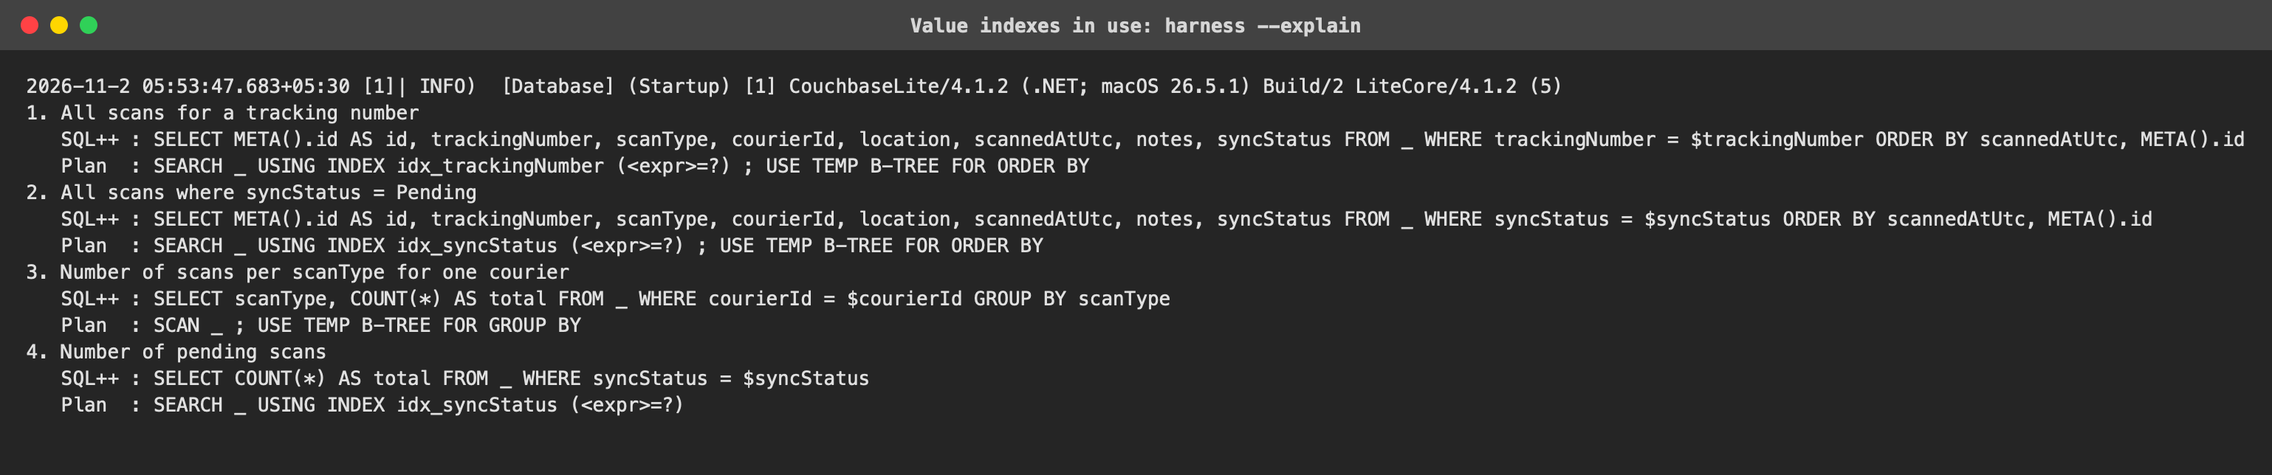
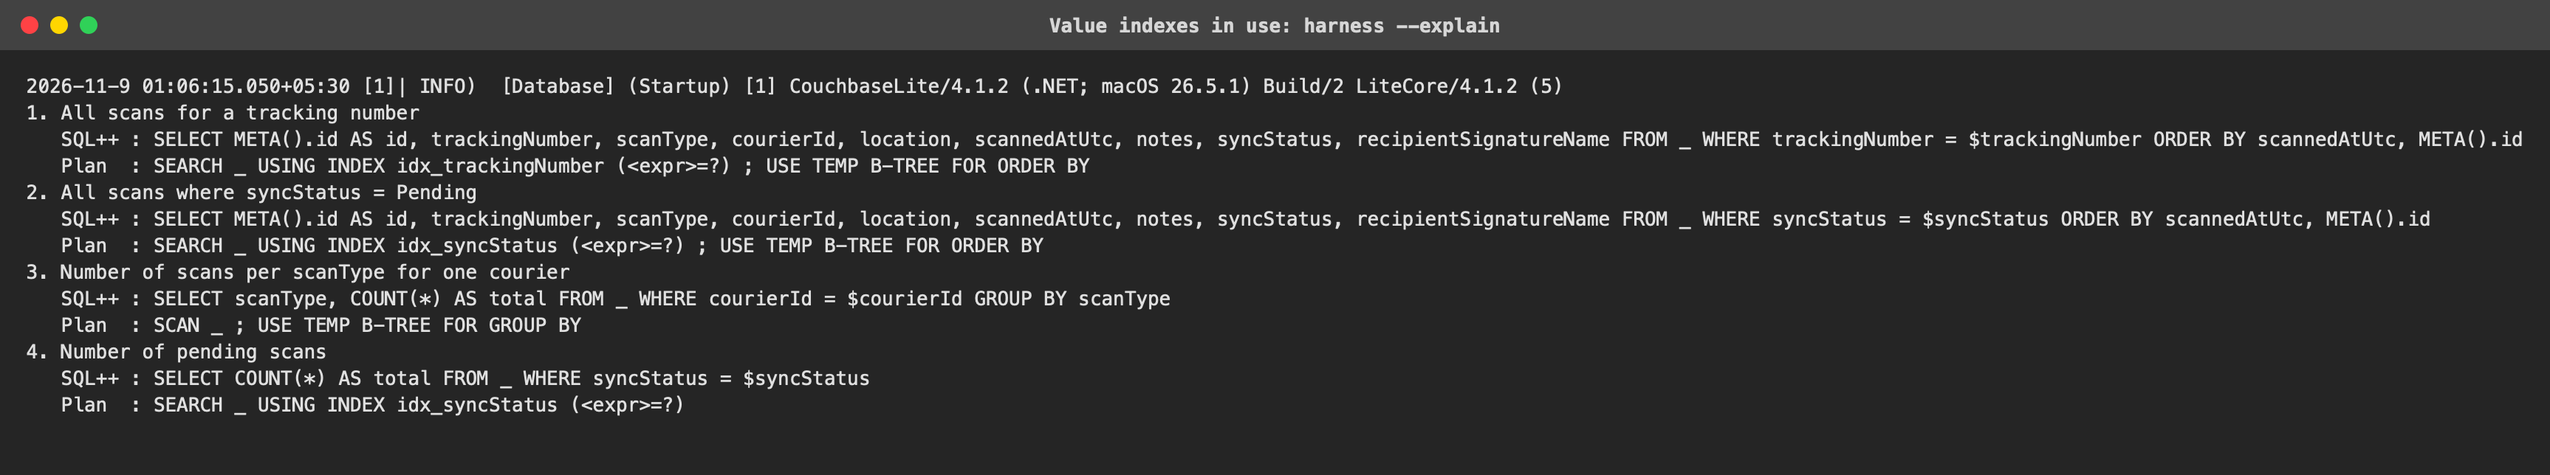
docs: retake the Swagger screenshots over HTTPS with Authorize, refresh Part A evidence, update security notes and Git history

Changed region(s): [[0.0, 0.1553, 0.9984, 0.8696], [0.4056, 0.0311, 0.5928, 0.0932], [0.0, 0.0311, 0.0624, 0.0621]]

diff --git a/docs/week4-partA/tools/make_evidence.py b/docs/week4-partA/tools/make_evidence.py
@@ -70,20 +70,20 @@ os.makedirs(OUT, exist_ok=True)
 
 # Session A: the three SQL++ queries, the outbox and a failed upload.
 a = Session("/tmp/apexpost-demo-a")
-a.act("1", "APX-2026-001", "1", "C-1001", "Sydney NSW", "Picked up at depot", settle=1.2)
+a.act("1", "APX-20260001", "1", "C-1001", "Sydney NSW", "Picked up at depot", settle=1.2)
 time.sleep(1.1)
-a.act("1", "APX-2026-001", "2", "C-1001", "Parramatta NSW", "Loaded on van 12", settle=1.2)
+a.act("1", "APX-20260001", "2", "C-1001", "Parramatta NSW", "Loaded on van 12", settle=1.2)
 time.sleep(1.1)
-a.act("1", "APX-2026-002", "1", "C-1001", "Sydney NSW", "[fail] torn label", settle=1.2)
+a.act("1", "APX-20260002", "1", "C-1001", "Sydney NSW", "[fail] torn label", settle=1.2)
 time.sleep(1.1)
-add4 = a.act("1", "APX-2026-001", "3", "C-1001", "Penrith NSW", "Left with neighbour", settle=1.2)
+add4 = a.act("1", "APX-20260001", "3", "C-1001", "Penrith NSW", "Left with neighbour", settle=1.2)
 time.sleep(1.1)
-add5 = a.act("1", "APX-2026-003", "1", "C-2002", "Melbourne VIC", "", settle=1.2)
-find = a.act("2", "APX-2026-001")
+add5 = a.act("1", "APX-20260003", "1", "C-2002", "Melbourne VIC", "", settle=1.2)
+find = a.act("2", "APX-20260001")
 pending = a.act("3")
 sync = a.act("4", settle=1.6)
 pending_after = a.act("3")
-find_failed = a.act("2", "APX-2026-002")
+find_failed = a.act("2", "APX-20260002")
 a.act("6")
 a.finish()
 with open(os.path.join(OUT, "query-results.txt"), "w") as handle:
@@ -97,9 +97,9 @@ render("query-4-sync-and-failed-scan", "Option 4: Simulate Sync, then List Pendi
 # Session B: the change listener log and the live pending count.
 b = Session("/tmp/apexpost-demo-b")
 parts = []
-parts += b.act("1", "APX-2026-010", "1", "C-1001", "Sydney NSW", "", settle=1.2)
-parts += [""] + b.act("1", "APX-2026-010", "2", "C-1001", "Parramatta NSW", "", settle=1.2)
-parts += [""] + b.act("1", "APX-2026-011", "1", "C-1001", "Sydney NSW", "[fail] torn label", settle=1.2)
+parts += b.act("1", "APX-20260010", "1", "C-1001", "Sydney NSW", "", settle=1.2)
+parts += [""] + b.act("1", "APX-20260010", "2", "C-1001", "Parramatta NSW", "", settle=1.2)
+parts += [""] + b.act("1", "APX-20260011", "1", "C-1001", "Sydney NSW", "[fail] torn label", settle=1.2)
 parts += [""] + b.act("4", settle=1.6)
 parts += [""] + b.act("5", "{ID:1}", settle=1.2)
 parts += [""] + b.act("6")

diff --git a/ApexPost.Tracking/Application/ShipmentService.cs b/ApexPost.Tracking/Application/ShipmentService.cs
@@ -220,7 +220,35 @@ public sealed class ShipmentService(IShipmentStore store, IBranchRepository bran
 
         // A scan that another upload stored in the meantime was skipped by the store, so it is a duplicate too.
         duplicates += fresh.Count - stored.Count;
+        await CloseDeliveryAsync(shipment, fresh.Where(scan => stored.Contains(scan.ScanId)).ToList(), now, ct);
         return ServiceResult<ScanUploadOutcome>.Success(new ScanUploadOutcome(stored.Count, duplicates, rejections));
+    }
+
+    /// <summary>
+    /// A Delivered or Failed scan from the courier closes a shipment that is out for delivery, so the shipment and its
+    /// scan history agree. It follows the normal status rules: only OutForDelivery can move to Delivered or Failed,
+    /// so a scan that arrives earlier in the journey changes nothing and the courier moves the status with PATCH.
+    /// </summary>
+    private async Task CloseDeliveryAsync(Shipment shipment, IReadOnlyList<TrackingScan> stored, DateTimeOffset now, CancellationToken ct)
+    {
+        var closing = stored
+            .Where(scan => scan.ScanType is ScanType.Delivered or ScanType.Failed)
+            .OrderBy(scan => scan.ScannedAtUtc)
+            .LastOrDefault();
+        if (closing is null || shipment.Status != ShipmentStatus.OutForDelivery)
+        {
+            return;
+        }
+
+        shipment.MoveTo(closing.ScanType == ScanType.Delivered ? ShipmentStatus.Delivered : ShipmentStatus.Failed, now);
+        try
+        {
+            await store.SaveChangesAsync(ct);
+        }
+        catch (ConcurrencyConflictException)
+        {
+            // Someone moved the shipment in the meantime. Their change stands, and the scans are already stored.
+        }
     }
 
     private static string? RejectionReason(IncomingScan scan, Shipment shipment, DateTimeOffset now)

diff --git a/SECURITY.md b/SECURITY.md
@@ -24,7 +24,13 @@ A courier may upload only scans recorded under their own `courierId` claim. `Shi
 
 **401 and 403.** A missing, invalid or expired token returns 401 ProblemDetails with a `WWW-Authenticate: Bearer` challenge, and the detail says which (for example "The access token has expired. Sign in again."). The wrong role returns 403 ProblemDetails. The token itself is never written to a response or a log. `SecurityTests` covers each case.
 
-**Development tokens.** In Development only, `POST /dev/token` issues a short-lived token signed with the same key:
+**Development tokens.** `POST /dev/token` issues a short-lived token signed with the same key, and anyone who could call it could become an Admin, so it is guarded three times and all three must hold:
+
+1. `ASPNETCORE_ENVIRONMENT` is Development. One wrong environment setting is not enough, because
+2. `Jwt:AllowDevelopmentTokens` must also be `true`. It is set only in `appsettings.Development.json`, so a Production deployment, or any deployment that copies `appsettings.json` alone, has no such route.
+3. The caller must be on the same machine (a loopback address). Anyone else gets a 404, as if the route did not exist.
+
+Setting the environment wrongly does expose the other Development features (Swagger UI, full error details, automatic migrations and seeding), so deployments must set the environment explicitly. `dotnet user-jwts` is the alternative the brief names, and it needs none of this: it keeps the signing key in user secrets and issues tokens with the .NET CLI.
 
 ```bash
 dotnet user-secrets set "Jwt:SigningKey" "$(openssl rand -base64 32)" --project ApexPost.Api
@@ -34,7 +40,7 @@ dotnet user-secrets set "Jwt:SigningKey" "$(openssl rand -base64 32)" --project 
 curl -k -X POST https://localhost:7180/dev/token -H "Content-Type: application/json" -d '{"roles":["Courier"],"courierId":"CR-1001"}'
 ```
 
-It is not mapped outside Development, and it is not in the OpenAPI documents. In Swagger UI, paste its `accessToken` into **Authorize → Bearer**, and every "Try it out" sends it.
+It is not mapped outside Development, and it is not in the OpenAPI documents. `SecurityTests` checks that production never issues a token, that the setting is needed, and that only loopback callers are served. In Swagger UI, paste its `accessToken` into **Authorize → Bearer**, and every "Try it out" sends it.
 
 ## Partner API keys
 
@@ -45,6 +51,14 @@ dotnet user-secrets set "PartnerApiKeys:Keys:DemoPartner" "$(openssl rand -hex 2
 ```
 
 `appsettings.json` holds an empty `Keys` object, so with no secrets configured every key fails. The endpoint filter compares SHA-256 hashes of the supplied key and each configured key with `CryptographicOperations.FixedTimeEquals`, and checks every key, so the time taken reveals nothing. Keys shorter than 32 characters are ignored. A missing or wrong key returns 401 ProblemDetails, and a bearer token does not help on this route. Only the partner's name is logged, never the key. The partner response leaves out the recipient's name, phone and address.
+
+## Rate limiting
+
+`UseRateLimiter()` runs before authentication, so a flood of bad tokens or keys is turned away cheaply. Two fixed one-minute windows per caller address, set in the `RateLimiting` section: 600 requests for any endpoint, and 30 for the partner route. The partner limit is checked before the API key, so repeated wrong keys are throttled too, and a key cannot walk through the sequential tracking numbers quickly. A refused request gets 429 ProblemDetails with a `Retry-After` header. `SecurityTests` covers both limits. Behind a reverse proxy, the caller address is the proxy's unless forwarded headers are configured, so production needs `UseForwardedHeaders` with the proxy listed, as in the Week 3 web app.
+
+## What a courier can see
+
+By design, any signed-in user, including a Courier, can read every shipment, with the recipient's name, phone and address, and a Courier can change the status of any shipment. The brief asks for exactly that, so it is how the API works. It is a known limit, not an oversight. To narrow it, assign each shipment to a courier (a `courierId` on the shipment), filter the list and reads for the Courier role by that claim, and check it in `ChangeStatusAsync` the way `UploadScansAsync` checks scans. The partner route already returns no personal data.
 
 ## OAuth 2.0 flows
 
@@ -85,10 +99,18 @@ A bearer token or an API key is a complete credential: whoever has it is the cou
 On a developer's machine the API uses the ASP.NET Core development certificate, which is issued to `localhost`. The Android emulator reaches the host as `10.0.2.2`, a name the certificate does not cover, and the emulator does not trust that certificate. So `ApexPost.Courier/Services/DevelopmentCertificate.cs` installs a certificate callback that:
 
 - exists only when `DEBUG` is defined, because the whole file and its registration in `MauiProgram` are inside `#if DEBUG`, so a Release build has no bypass;
-- accepts a certificate that fails normal checks only when the host is `localhost`, `127.0.0.1` or `10.0.2.2` **and** the certificate's subject is `CN=localhost`;
+- accepts a certificate that fails normal checks only when the host is `localhost`, `127.0.0.1` or `10.0.2.2` **and** the certificate's subject is `CN=localhost`. This does not pin one certificate: any self-signed certificate with that subject passes, which is acceptable only because it is Debug-only and for local hosts. To tighten it, compare the certificate's thumbprint with the one from `dotnet dev-certs https --check`;
 - leaves every other host, and every certificate that passes normal checks, to the platform's own validation.
 
 A Release build talks only to a production host with a certificate from a public authority, and never turns validation off. The NSwag console consumer and the test clients never bypass certificate checks.
+
+## Release builds of the app
+
+The "Get development token" button, the courier-id box, `LoginViewModel.RequestTokenAsync`, `ApexApiClient.RequestDevelopmentTokenAsync` and their DTOs exist only in Debug builds (`#if DEBUG`). A Release build has just the paste-a-token path, so it never ships a sign-in button that needs no password. The `DevelopmentCertificate` handler is likewise Debug-only.
+
+## Backup on Android
+
+`allowBackup` is `false`, with `data_extraction_rules.xml` excluding every domain from cloud backup and device transfer. The offline database holds scan locations and signature names unencrypted, and a SecureStorage token restored onto another device cannot be decrypted anyway. `SecureStorageTokenStore.GetAsync` also catches a failed decryption, forgets the value and returns no token, so the courier signs in again instead of the app failing.
 
 ## Token storage in the app
 

diff --git a/docs/GIT-HISTORY.md b/docs/GIT-HISTORY.md
@@ -1,6 +1,6 @@
 # Git history
 
-Repository: <https://github.com/vercellmotive/ApexPost>. A zip leaves out `.git`, so this snapshot shows how the work was done, up to PR #15. It can't list the commit that updates it, so GitHub is the full record.
+Repository: <https://github.com/vercellmotive/ApexPost-TusharSharma> (earlier pull requests were opened as `vercellmotive/ApexPost`, and the old address redirects, so their links still work). A zip leaves out `.git`, so this snapshot shows how the work was done: Weeks 2 and 3 up to PR #15, and Week 4 in the last section. It can't list the commit that updates it, so GitHub is the full record.
 
 ## Pull requests
 
@@ -68,6 +68,56 @@ Repository: <https://github.com/vercellmotive/ApexPost>. A zip leaves out `.git`
 | `1af8f10` | 2026-11-01 | fix: answer 400 when a form is shown again, and reject a price change that rounds to zero |
 | `61d4a84` | 2026-11-01 | feat: require positive payments, unicode role names, and drop a redundant index |
 | `8da478b` | 2026-11-01 | docs: measure the stock history index |
+
+## Week 4: branches and pull requests
+
+The four parts are chained: each branch starts from the one before it, so merge them in order, A, B, C, D. The pull requests below are open until they are merged on GitHub, and the pull request page is the record of when. The commits are listed as they stood when this file was written (the review fixes for Part D are on `week4-partD` after them).
+
+| PR | Branch | Part |
+|---|---|---|
+| [#17](https://github.com/vercellmotive/ApexPost-TusharSharma/pull/17) | `week4-partA` | Part A: the courier offline store |
+| [#18](https://github.com/vercellmotive/ApexPost-TusharSharma/pull/18) | `week4-partB` | Part B: the shipment REST API |
+| [#19](https://github.com/vercellmotive/ApexPost-TusharSharma/pull/19) | `week4-partC` | Part C: OpenAPI, versioning and the client SDK |
+| [#20](https://github.com/vercellmotive/ApexPost-TusharSharma/pull/20) | `week4-partD` | Part D: security and the courier app |
+
+### Part A: the courier offline store (`week4-partA`)
+
+| Commit | Date | Message |
+|---|---|---|
+| `aa772af` | 2026-11-02 | feat(courier): add the offline library with the scan model, database, indexes and change listener |
+| `8a7c350` | 2026-11-02 | feat(courier): add the scan repository with key-value CRUD and parameterised SQL++ |
+| `6d4e93d` | 2026-11-02 | feat(courier): add the outbox service and a fake uploader |
+| `e6585ff` | 2026-11-02 | feat(courier): add the console test harness |
+| `c5f0ee9` | 2026-11-02 | test(courier): add tests for the offline library and the harness |
+| `07af09c` | 2026-11-02 | docs(courier): add the design note, README section and evidence |
+
+### Part B: the shipment REST API (`week4-partB`)
+
+| Commit | Date | Message |
+|---|---|---|
+| `c6262e3` | 2026-11-09 | feat(tracking): add the shipment and scan domain and the shipment service |
+| `39fe7d0` | 2026-11-09 | feat(tracking): add the tracking schema, migration and EF Core store |
+| `510677a` | 2026-11-09 | feat(api): add the shipment REST API |
+| `8d248d7` | 2026-11-09 | test(api): cover the rules, the service, every status code and SQL Server |
+| `de44b98` | 2026-11-09 | docs(api): add API-NOTES.md, the README section and the request file notes |
+
+### Part C: OpenAPI, versioning and the client SDK (`week4-partC`)
+
+| Commit | Date | Message |
+|---|---|---|
+| `1f5799e` | 2026-11-09 | feat(api): add URL versioning, per-version OpenAPI documents and Swagger UI |
+| `89a39f0` | 2026-11-09 | feat(client): generate the v2 client with NSwag and add a console consumer |
+| `efb5e57` | 2026-11-09 | docs(api): add VERSIONING.md, the OpenAPI explanation and Part C evidence |
+
+### Part D: security and the courier app (`week4-partD`)
+
+| Commit | Date | Message |
+|---|---|---|
+| `c548a98` | 2026-11-09 | feat(api): secure the API with JWT bearer tokens, roles and partner API keys |
+| `5ffd5d9` | 2026-11-09 | feat(offline): keep an optional recipient signature on a scan |
+| `448787e` | 2026-11-09 | feat(courier): add the typed API client, resilience, JSON, sync and view models |
+| `5860fe3` | 2026-11-09 | feat(courier): add the .NET MAUI app with Login, New Scan, Pending and Sync Status |
+| `7dfc3f6` | 2026-11-09 | docs: add SECURITY.md, RESILIENCE.md, the Part D README section and evidence |
 
 ## Early commit messages
 

diff --git a/docs/week4-partC/README.md b/docs/week4-partC/README.md
@@ -1,21 +1,23 @@
 # Week 4 Part C evidence
 
-All screenshots are of the real Swagger UI served by `ApexPost.Api` in Development, taken with headless Chrome by [`tools/swagger-screenshots.mjs`](tools/swagger-screenshots.mjs). The data is fictional.
+All screenshots are of the real Swagger UI served by the secured `ApexPost.Api` in Development over HTTPS (`https://localhost:7180`), taken with headless Chrome by [`tools/swagger-screenshots.mjs`](tools/swagger-screenshots.mjs). The data is fictional. They were retaken after Part D, so they show the Authorize button, the bearer token header and the 401 response. Tokens are masked in the pages before capture, so no credential is in an image.
 
 | File | Shows |
 |---|---|
+| [`swagger-authorize.png`](swagger-authorize.png) | The Authorize dialog after pasting a development token: the Bearer scheme is "Authorized" (value hidden) and the partner ApiKey scheme is offered below it |
+| [`response-401-unauthorized.png`](response-401-unauthorized.png) | "Try it out" on `GET /api/v2/shipments` before authorizing: 401 ProblemDetails with `www-authenticate: Bearer` |
 | [`swagger-v2.png`](swagger-v2.png) | Swagger UI with the "v2" document selected: the title, description, contact, both tags and every operation |
 | [`swagger-v1.png`](swagger-v1.png) | The "v1 (deprecated)" document: every operation is struck through as deprecated, and the description gives the sunset date |
 | [`response-201-location.png`](response-201-location.png) | "Try it out" on `POST /api/v2/shipments`: 201 Created with the `location` header and the version headers |
 | [`response-400-validation.png`](response-400-validation.png) | The same request with bad fields: 400 `ValidationProblemDetails` naming each field |
 | [`response-409-conflict.png`](response-409-conflict.png) | The 201 request sent again: 409 Conflict for the duplicate tracking number |
-| [`http-check.txt`](http-check.txt) | Every request in `ApexPost.Api.http` (44, both versions) sent by [`tools/check-http.py`](tools/check-http.py), each returning the status its title states |
+| [`http-check.txt`](http-check.txt) | The Part C run of the 44 requests in `ApexPost.Api.http` (before security; the Part D run with 60 requests and tokens is in `../week4-partD/http-check.txt`) sent by [`tools/check-http.py`](tools/check-http.py), each returning the status its title states |
 | [`consumer-output.txt`](consumer-output.txt) | The output of `ApexPost.Client.Consumer`: create, fetch, upload two scans, handle a 404 |
 
-The development certificate is not trusted on the machine that took these, so for the screenshots and the two text files the API was started on plain HTTP on localhost (`--urls http://localhost:5180`). The code and the HTTPS profile are unchanged.
+Headless Chrome does not trust the ASP.NET Core development certificate, so the screenshot script starts it with `--ignore-certificate-errors`. That flag affects only that throwaway browser profile. The API and the app never skip certificate checks.
 
-To take them again, start the API in Development with fresh data, then:
+To take them again, start the API in Development over HTTPS with fresh data (see the Part D section of the README for the two user secrets), then:
 
 ```bash
-node docs/week4-partC/tools/swagger-screenshots.mjs http://localhost:5180 docs/week4-partC
+node docs/week4-partC/tools/swagger-screenshots.mjs https://localhost:7180 docs/week4-partC
 ```

diff --git a/README.md b/README.md
@@ -2,7 +2,7 @@
 
 ApexPost is a .NET 10 / C# 14 ASP.NET Core MVC counter platform for branch retail sales, shipping, money orders, identity checks, inventory, reporting, and audit. The solution uses a layered domain/application/infrastructure/web architecture. Data is stored in Microsoft SQL Server through EF Core 10, behind repository and query interfaces.
 
-**Repository:** <https://github.com/vercellmotive/ApexPost>. A zip has no Git history, so [`docs/GIT-HISTORY.md`](docs/GIT-HISTORY.md) lists the commits and pull requests.
+**Repository:** <https://github.com/vercellmotive/ApexPost-TusharSharma> (it was `vercellmotive/ApexPost`, and the old address redirects). A zip has no Git history, so [`docs/GIT-HISTORY.md`](docs/GIT-HISTORY.md) lists the commits and pull requests.
 
 ## Requirements and run
 
@@ -64,7 +64,7 @@ dotnet ef migrations script --idempotent --project ApexPost.Infrastructure --sta
 dotnet test ApexPost.slnx
 ```
 
-This runs the Week 3 project `ApexPost.Test` (181 tests with no database, and 28 more reported as skipped), and the Week 4 projects `ApexPost.Courier.Offline.Tests` (96 tests that use an embedded database and need no server), `ApexPost.Api.Tests` (125 tests with no database, and 8 more reported as skipped) and `ApexPost.Courier.Core.Tests` (53 tests). To run the skipped SQL Server tests too, point this at a server you control. The tests create and drop their own disposable database and never touch `ApexPostDb`:
+This runs the Week 3 project `ApexPost.Test` (181 tests with no database, and 28 more reported as skipped), and the Week 4 projects `ApexPost.Courier.Offline.Tests` (97 tests that use an embedded database and need no server), `ApexPost.Api.Tests` (143 tests with no database, and 8 more reported as skipped) and `ApexPost.Courier.Core.Tests` (65 tests). To run the skipped SQL Server tests too, point this at a server you control. The tests create and drop their own disposable database and never touch `ApexPostDb`:
 
 ```bash
 APEXPOST_TEST_SQLSERVER="Server=localhost;User Id=<user>;Password=<password>;TrustServerCertificate=True" dotnet test ApexPost.slnx
@@ -346,7 +346,7 @@ dotnet user-secrets set "Jwt:SigningKey" "$(openssl rand -base64 32)" --project 
 dotnet user-secrets set "PartnerApiKeys:Keys:DemoPartner" "$(openssl rand -hex 24)" --project ApexPost.Api
 ```
 
-In Development, `POST /dev/token` issues a test token, for example `{"roles":["Courier"],"courierId":"CR-1001"}`. In Swagger UI, paste it into **Authorize**. [`ApexPost.Api/ApexPost.Api.http`](ApexPost.Api/ApexPost.Api.http) starts by requesting tokens, and ends with the 401, 403, invalid API key and valid token cases.
+In Development only, and only because `appsettings.Development.json` sets `Jwt:AllowDevelopmentTokens`, `POST /dev/token` issues a test token to a caller on the same machine, for example `{"roles":["Courier"],"courierId":"CR-1001"}`. In Swagger UI, paste it into **Authorize**. [`ApexPost.Api/ApexPost.Api.http`](ApexPost.Api/ApexPost.Api.http) starts by requesting tokens, and ends with the 401, 403, invalid API key and valid token cases.
 
 ### The courier app
 

diff --git a/RESILIENCE.md b/RESILIENCE.md
@@ -39,11 +39,16 @@ So if the reply to an upload is lost and the pipeline, or the next sync run, sen
 |---|---|---|
 | Device offline (`Connectivity` says no internet) | No call is made | Saved locally as Pending. The banner shows. |
 | Network error or 5xx, retries exhausted | `ApiFailureKind.Unreachable` or `ServerError` | Stay Pending. This sync run stops and the next one tries again. |
+| A reply the app cannot read (a captive-portal page on public Wi-Fi answers 200 with HTML) | `ApiFailureKind.Malformed`, treated like a network failure | Stay Pending. The run stops, and the scans go up when the network is real. |
 | Circuit open | `ApiFailureKind.CircuitOpen`, at once | Stay Pending. The banner "Server unavailable – working offline" shows on every tab. |
 | 401 | Token cleared, Login page | Stay Pending until the courier signs in again. |
-| 400, 403, 404 | `ApiFailureKind.Rejected` with the ProblemDetails message | Marked Failed, with the reason on the Sync Status screen. |
+| 400, 403, 404 | `ApiFailureKind.Rejected` with the ProblemDetails message | Marked Failed, with the reason on the Sync Status screen. "Retry failed scans" on that screen moves them back to Pending and sends them again, for example after a back-office user creates the missing shipment. |
 | 200 with rejections | Per scan | Rejected scans Failed with the server's reason. Accepted and duplicate scans Synced. |
 | Back online (`Connectivity.ConnectivityChanged`) | `ScanSyncService` starts a run | Pending scans go up in batches of 20, oldest first. |
+
+## Edits and deletes while an upload runs
+
+After the server accepts a scan, `ScanSyncService` reads the scan again before marking it Synced. If it was edited meanwhile it stays Pending, so the edit is sent too (the server skips the id it already has, so a correction needs a new scan, which is the courier's call). If it was deleted, it stays deleted. The Part A `OutboxService` has the same rule for failures that may pass: an uploader that throws `TransientUploadException` leaves the scan Pending and stops the run, instead of marking it Failed.
 
 ## Logging
 

diff --git a/VERSIONING.md b/VERSIONING.md
@@ -25,6 +25,8 @@ APEXPOST_UPDATE_CONTRACTS=1 dotnet test ApexPost.Api.Tests --filter ContractTest
 | v1, v2 | Requests, routes, status codes and validation | No | The same in both versions. A v2 client sends exactly the v1 request bodies |
 | v1, v2 | Scan endpoints (`/scans`) | No | The scan contract did not change, so one controller serves both versions |
 | v1, v2 | Part D: every endpoint needs a bearer token, with roles for writes (401 and 403 added to every operation) | **Yes**, on purpose | Security fixes go into every supported version. An anonymous client must now sign in. The bodies did not change |
+| v1, v2 | Part D: a Delivered or Failed scan moves a shipment that is `OutForDelivery` to Delivered or Failed | No | The status was already allowed to change to these values. Clients see the status they would have set themselves with `PATCH`, and the response shapes did not change |
+| v1, v2 | Part D: 429 responses when a rate limit is exceeded | No | An added response for abuse only. Well-behaved clients never see it |
 | v2 | Part D: `GET /api/v2/partner/shipments/{trackingNumber}` with an `X-Api-Key` header | No | A new endpoint. Existing clients are unaffected |
 
 Rule of thumb: adding an optional request field, a response field, an endpoint or a header is non-breaking. Removing or renaming a field, changing its type or meaning, making an optional field required, or changing a status code is breaking and needs a new version.

diff --git a/API-NOTES.md b/API-NOTES.md
@@ -49,6 +49,14 @@ The scan id from the courier device is the primary key of `tracking.Scans`. An u
 
 If two uploads of the same scans race, the primary key refuses the second insert. The store then inserts that batch one scan at a time and counts the ones that were already there as duplicates. A test runs four uploads of one batch in parallel against SQL Server and finds each scan stored once.
 
+## Scans and the shipment's status
+
+A scan upload does not move a shipment along the status path, which is the job of `PATCH .../status`, with one exception: a Delivered or Failed scan closes a shipment that is `OutForDelivery`, moving it to Delivered or Failed, so the status and the scan history agree. A scan that arrives earlier in the journey changes nothing. If another request moved the shipment first, that change stands and the scans are still stored.
+
+## Rate limits
+
+429 ProblemDetails with `Retry-After` when a caller sends more than 600 requests a minute to any endpoint, or more than 30 to the partner route. See [`SECURITY.md`](SECURITY.md).
+
 ## Design
 
 - **Thin controllers.** Each action binds a request DTO, maps it to a service command, calls `IShipmentService` and maps the result. The service returns `ServiceResult<T>`, and `ServiceErrorResults` turns a NotFound, Conflict or Validation error into ProblemDetails. Request DTOs are never bound to EF entities.
